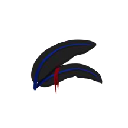
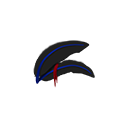
Fixed Sacrifice Doll not playing Attacks. Made Sacred Necklace super-rare for now. Fixed Ritual Plumage and Sacrifice Doll image paths. Fixed Ritual Plumage pulse effect. Minor text updates. Updated art. Added StSLib as a hard dependency (SuperRareRelic).

Changed region(s): [[0.2188, 0.2812, 0.8125, 0.7188]]

diff --git a/src/main/java/beaked/actions/SacrificeDollAction.java b/src/main/java/beaked/actions/SacrificeDollAction.java
@@ -1,5 +1,6 @@
 package beaked.actions;
 
+import beaked.Beaked;
 import beaked.patches.AbstractCardEnum;
 import com.megacrit.cardcrawl.actions.AbstractGameAction;
 import com.megacrit.cardcrawl.actions.common.DiscardSpecificCardAction;
@@ -27,7 +28,7 @@ public class SacrificeDollAction extends AbstractGameAction {
                     AbstractDungeon.getCurrRoom().souls.remove(card);
                     card.freeToPlayOnce = true;
                     AbstractDungeon.player.limbo.group.add(card);
-                    AbstractMonster target = AbstractDungeon.getCurrRoom().monsters.getRandomMonster(null,true, AbstractDungeon.monsterRng);
+                    AbstractMonster target = AbstractDungeon.getRandomMonster();
                     if (!card.canUse(AbstractDungeon.player, target)) {
                         AbstractDungeon.actionManager.addToTop(new UnlimboAction(card));
                         AbstractDungeon.actionManager.addToTop(new DiscardSpecificCardAction(card, AbstractDungeon.player.limbo));
@@ -35,7 +36,7 @@ public class SacrificeDollAction extends AbstractGameAction {
 
                     } else {
                         card.applyPowers();
-                        AbstractDungeon.actionManager.addToTop(new QueueCardAction(card, this.target));
+                        AbstractDungeon.actionManager.addToTop(new QueueCardAction(card, target));
                         AbstractDungeon.actionManager.addToTop(new UnlimboAction(card));
                         if (!Settings.FAST_MODE) {
                             AbstractDungeon.actionManager.addToTop(new WaitAction(Settings.ACTION_DUR_MED));

diff --git a/src/main/java/beaked/relics/RitualPlumage.java b/src/main/java/beaked/relics/RitualPlumage.java
@@ -31,8 +31,8 @@ public class RitualPlumage extends CustomRelic {
     private static int ritualAmount = 2;
 
     public RitualPlumage() {
-        super(ID, TextureLoader.getTexture("beaked_images/relics/RitualPlumage.png"),
-                TextureLoader.getTexture("beaked_images/relics/outline/RitualPlumage.png"),
+        super(ID, TextureLoader.getTexture("beaked_img/relics/RitualPlumage.png"),
+                TextureLoader.getTexture("beaked_img/relics/outline/RitualPlumage.png"),
                 RelicTier.SHOP, LandingSound.MAGICAL);
     }
 
@@ -58,6 +58,7 @@ public class RitualPlumage extends CustomRelic {
 
     @Override
     public void onPlayerEndTurn() {
+        this.pulse = false;
         if (AbstractDungeon.player.cardsPlayedThisTurn == 0 && !this.used) {
             AbstractDungeon.actionManager.addToBottom(new ApplyPowerAction(AbstractDungeon.player, AbstractDungeon.player,
                     new RitualPlayerPower(AbstractDungeon.player, ritualAmount), ritualAmount));

diff --git a/src/main/java/beaked/relics/SacrificeDoll.java b/src/main/java/beaked/relics/SacrificeDoll.java
@@ -14,8 +14,8 @@ public class SacrificeDoll extends CustomRelic {
     private GameActionManager am = AbstractDungeon.actionManager;
 
     public SacrificeDoll() {
-        super(ID, TextureLoader.getTexture("beaked_images/relics/SacrificeDoll.png"),
-                TextureLoader.getTexture("beaked_images/relics/outline/SacrificeDoll.png"),
+        super(ID, TextureLoader.getTexture("beaked_img/relics/SacrificeDoll.png"),
+                TextureLoader.getTexture("beaked_img/relics/outline/SacrificeDoll.png"),
                 RelicTier.BOSS, LandingSound.FLAT);
     }
 

diff --git a/src/main/java/beaked/relics/SacredNecklace.java b/src/main/java/beaked/relics/SacredNecklace.java
@@ -3,10 +3,11 @@ package beaked.relics;
 import basemod.abstracts.CustomRelic;
 import beaked.Beaked;
 import com.badlogic.gdx.graphics.Texture;
+import com.evacipated.cardcrawl.mod.stslib.relics.SuperRareRelic;
 import com.megacrit.cardcrawl.core.EnergyManager;
 import com.megacrit.cardcrawl.dungeons.AbstractDungeon;
 
-public class SacredNecklace extends CustomRelic {
+public class SacredNecklace extends CustomRelic implements SuperRareRelic{
     public static final String ID = "beaked:SacredNecklace";
 
     public SacredNecklace() {
